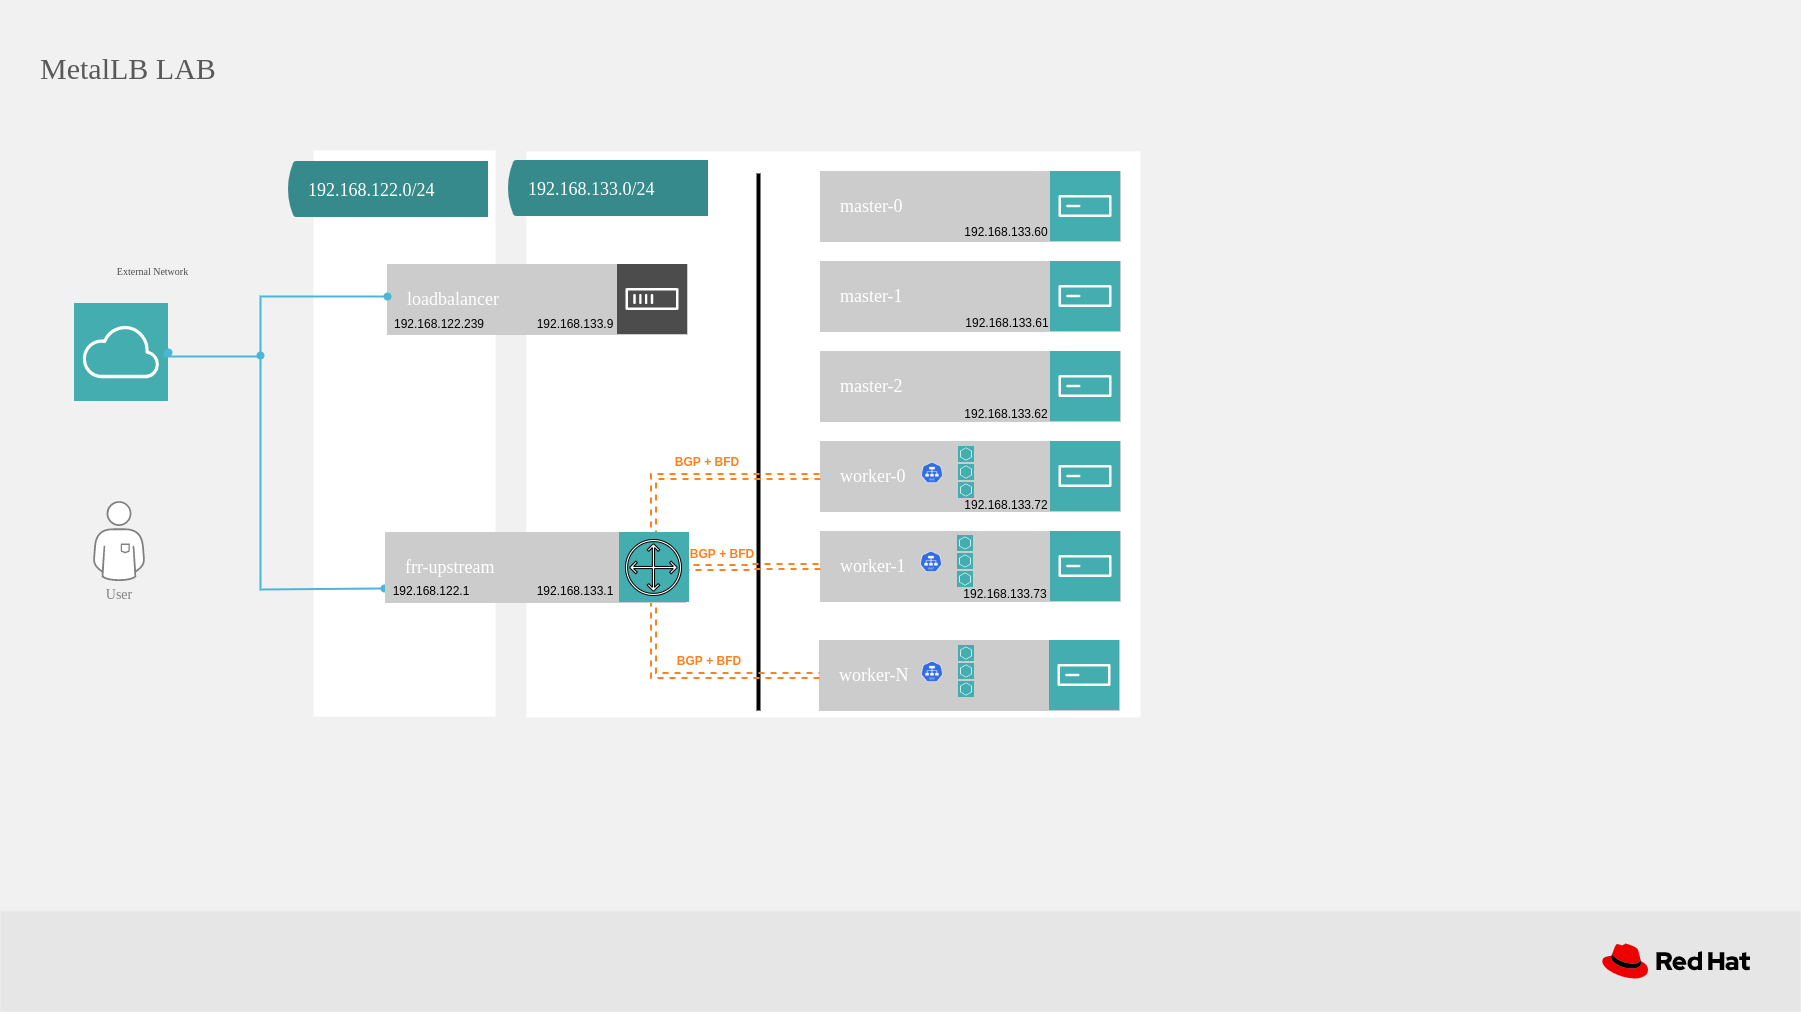
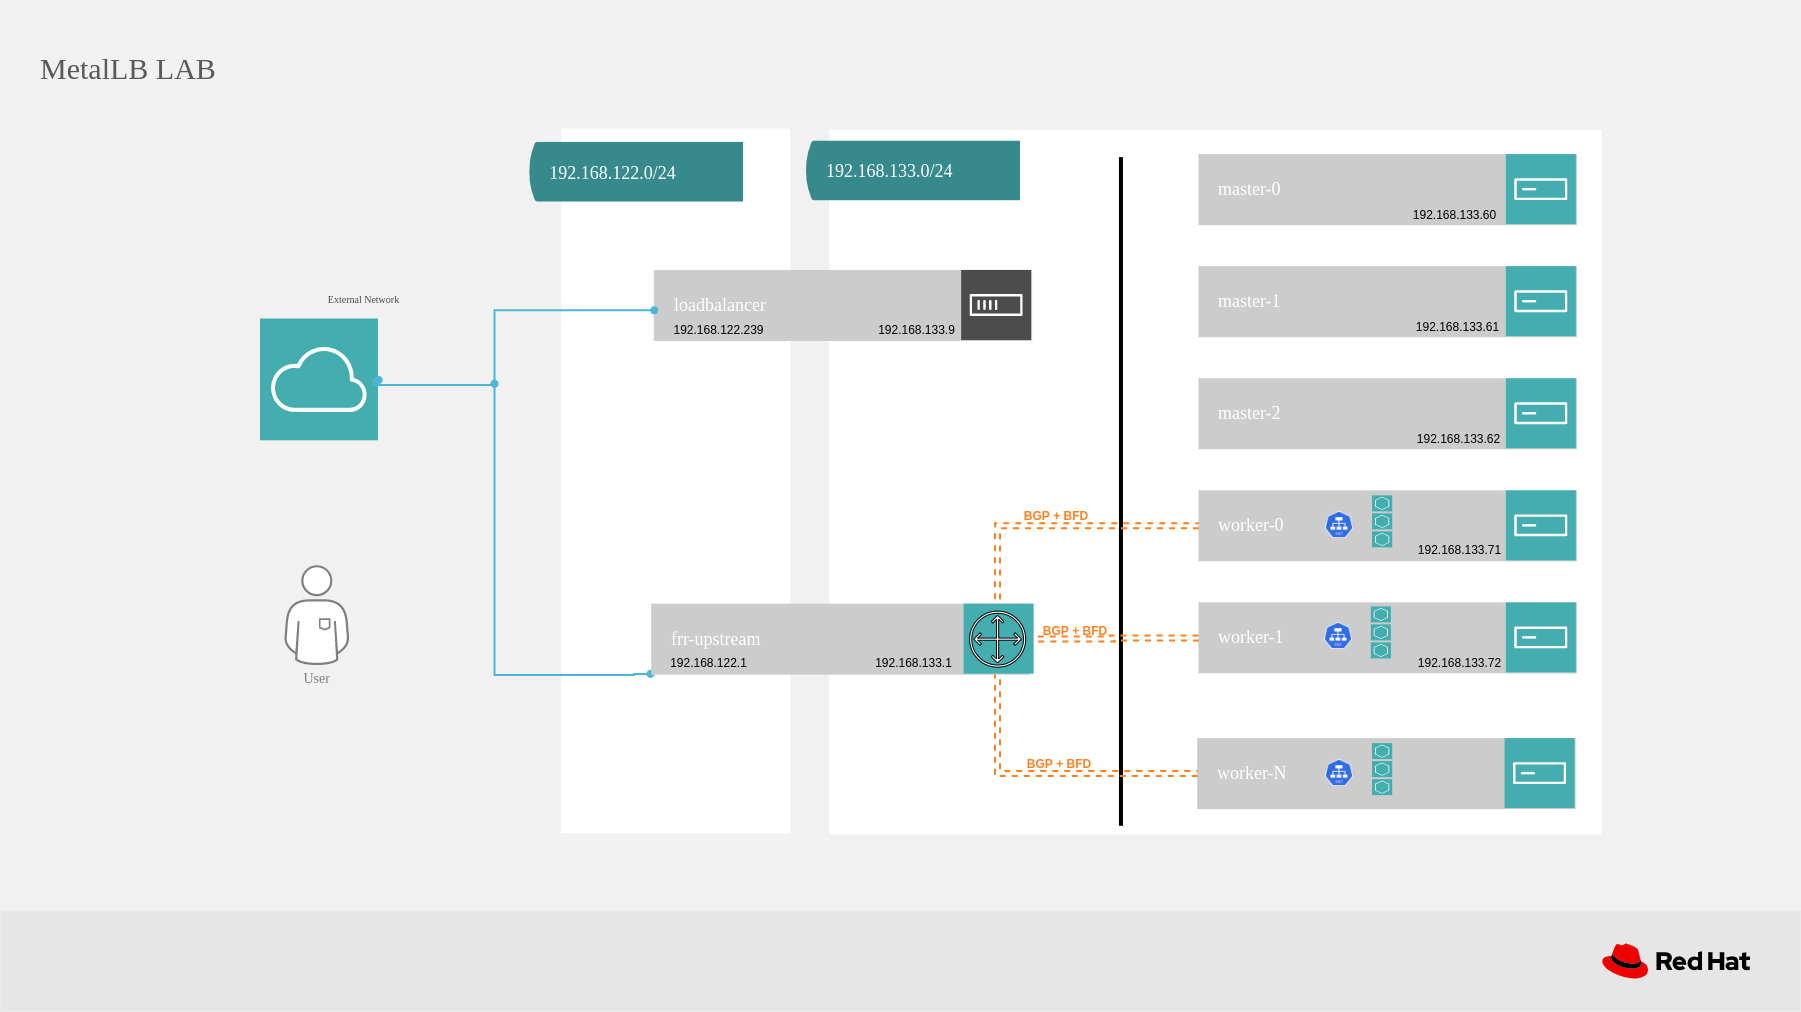
Fix MetalLB post

diff --git a/_posts/2022-03-18-metallb-in-bgp-mode.md b/_posts/2022-03-18-metallb-in-bgp-mode.md
@@ -20,13 +20,13 @@ Some concepts need to be conveyed in order to follow the next section where I wi
 
 First and foremost I need to address what is MetalLB ?
 
-It is an OpenSource project that provides the ability to create ```LoadBalancer``` type of kubernetes Services on top of a baremetal OpenShift/Kubernetes cluster and in turn create the same user experience that one would get on a public cloud provider like in AWS, GCP or Azure.[^1]
+It is an OpenSource project that provides the ability to create **LoadBalancer** type of kubernetes Services on top of a baremetal OpenShift/Kubernetes cluster and in turn create the same user experience that one would get on a public cloud provider like in AWS, GCP or Azure.[^1]
 
-A service of type ```LoadBalancer``` in kubernetes will automatically request the cloud provider to provision a load balancer that will direct traffic to the right cluster node and port tuples, and subsequently assign an externally accessible IP to it. Then information like the assigned IP address will be updated in the status section of the new service resource.[^2] In an on prem environment Kubernetes will create a ClusterIP service and assign a node port and wait for the administrator to create the load balancer side configuration.
+A service of type **LoadBalancer** in kubernetes will automatically request the cloud provider to provision a load balancer that will direct traffic to the right cluster node and port tuples, and subsequently assign an externally accessible IP to it. Then information like the assigned IP address will be updated in the status section of the new service resource.[^2] In an on prem environment Kubernetes will create a ClusterIP service and assign a node port and wait for the administrator to create the load balancer side configuration.
 
-In order to achieve a similar behavior to public cloud providers, MetalLB has to handle two main tasks: _address allocation_ which means managing the address pools that the new ```LoadBalancer``` services will use, and secondly the _external announcement_ of these services' IPs, so that external entities to the cluster can learn how to reach them.
+In order to achieve a similar behavior to public cloud providers, MetalLB has to handle two main tasks: _address allocation_ which means managing the address pools that the new **LoadBalancer** services will use, and secondly the _external announcement_ of these services' IPs, so that external entities to the cluster can learn how to reach them.
 
-In regard to address allocation MetalLB has to be told which IPs or IP ranges it can assign when a new service is created and this is accomplished through the ```AddressPool``` CRD.
+In regard to address allocation MetalLB has to be told which IPs or IP ranges it can assign when a new service is created and this is accomplished through the **AddressPool** CRD.
 
 As to external announcement of the IP, MetalLB offers two alternatives:
 
@@ -39,14 +39,14 @@ The remaining part of this article I am going to focus on the latter, BGP mode.
 
 When MetalLB works in BGP mode, it makes use of FRR[^4], an opensource project that started as an spin off of Quagga, and provides GNU/Linux based fully featured IP routing capabilities. It supports all sort of routing protocols, and among them the one MetalLB needs: BGP. 
 
-BGP or Border Gateway Protocol is the Internet and industry de facto protocol for routing, which you probably heard of. In brief, BGPv4 was defined under RFC1654[^5] as an exterior gateway path-vector routing protocol, with the goal of conveying network reachibility between autonomous systems. The autonomous system can be a flexible term but in its conception refers to a set of routers under a single technical administration, ideally with a common internal gateway protocol in use, common metrics, etc. Each AS will be identified by an ASN or autonomous system number that will be typically a unique 16-bit number (or 32 bits with RFC 4893).
+BGP or Border Gateway Protocol is the Internet and industry de facto protocol for routing, which you probably heard of. In brief, BGPv4 was defined under RFC1654[^5] as an exterior gateway path-vector routing protocol, with the goal of conveying network reachability between autonomous systems. The autonomous system can be a flexible term but in its conception refers to a set of routers under a single technical administration, ideally with a common internal gateway protocol in use, common metrics, etc. Each AS will be identified by an ASN or autonomous system number that will be typically a unique 16-bit number (or 32 bits with RFC 4893).
 
-BGP minimum allowed time to keep a failed session (hold time) is 3 seconds, which may be unacceptable amount of time for a service to be unavailable. Therefore, in addition to the standard BGP speaking capabilities, MetalLB (and FRR) also supports to configure Bi-directional Forwarding Detection (or BFD) protocol. BFD adds further resiliency to the solution providing faster failure detection. It allows two routers to detect faults in the bidirectional path among them at subsencond intervals. BFD works at layer 3, and basically offers a lightweight liveness detection protocol (aka "hello" protocol) that is independant of the routing protocol itself, it will only limit itself to notify the routing protocol about the failure and not to take any corrective action.[^6]
+BGP minimum allowed time to keep a failed session (hold time) is 3 seconds, which may be unacceptable amount of time for a service to be unavailable. Therefore, in addition to the standard BGP speaking capabilities, MetalLB (and FRR) also supports configuring Bi-directional Forwarding Detection (or BFD) protocol. BFD adds further resiliency to the solution providing faster failure detection. It allows two routers to detect faults in the bidirectional path among them at subsecond intervals. BFD works at layer 3, and basically offers a lightweight liveness detection protocol (aka "hello" protocol) that is independent of the routing protocol itself, it will only limit itself to notify the routing protocol about the failure and not to take any corrective action.[^6]
 
 
 ### Environment
 
-The network where the OpenShift cluster will run on needs an adjacent router to speak also BGP and BFD, moreover the router will do ECMP (Equal Cost Multipath) in order to distribute the incoming requests uniformly across multiple worker nodes. So if a service is advertised from multiple worker nodes, each should get an even amount of requests.
+The network where the OpenShift cluster will run on needs an adjacent router which speaks also BGP and BFD, moreover the router will do ECMP (Equal Cost Multipath) in order to distribute the incoming requests uniformly across multiple worker nodes. So if a service is advertised from multiple worker nodes, each should get an even amount of requests.
 
 For this purpose I am going to use an isolated instance of FRR running containerized within an external system in order to emulate that router.
 
@@ -58,7 +58,6 @@ The following diagram describes the test scenario in more detail.
 For the purpose of testing this feature I have an already installed cluster of OpenShift 4.10.3 using baremetal UPI deployment method, and also using Openshift SDN as CNI plugin with default configuration.
 
 {% highlight bash %}
-
 $ oc get clusterversion
 NAME      VERSION   AVAILABLE   PROGRESSING   SINCE   STATUS
 version   4.10.3    True        False         23h     Cluster version is 4.10.3
@@ -149,7 +148,7 @@ For MetalLB in BGP mode to work that needs to be done is as follows:
 
 ### Procedure
 
-The procedure consists of deploying the external router, then deploy and configure MetalLB operator and test the resulting scenario.
+The procedure consists of three parts, deploying the external router, then deploying and configuring MetalLB operator and finally testing the resulting scenario.
 
 #### External Router
 
@@ -323,7 +322,7 @@ bdf2b6a9ebe087acc7df8b57f86dbf7e3f253f5df66ced360a18d2d40574b8f1
 {% endhighlight %}
 
 Finally allow BGP (179/TCP) and BFD (3784/UDP and 3785/UDP) communications to go through the firewall if you have one running between OpenShift nodes and the router. 
-Since in my LAB environment the host running the FRR pod is a Fedora hypervisor and the OpenShift cluster is virtualized, I will allow this port via firwalld and in the ```libvirt``` zone.
+Since in my LAB environment the host running the FRR pod is a Fedora hypervisor and the OpenShift cluster is virtualized, I will allow this port via firwalld and in the **libvirt** zone.
 
 {% highlight console %}
 $ firewall-cmd --zone=libvirt --add-port=179/tcp --add-port=3784/udp --add-port=3785/udp --permanent
@@ -422,7 +421,6 @@ metallb.metallb.io/metallb created
 ```
 
 {% highlight console %}
-
 $  oc get deployment -n metallb-system controller 
 NAME         READY   UP-TO-DATE   AVAILABLE   AGE
 controller   1/1     1            1           91s
@@ -459,8 +457,8 @@ spec:
 
 ##### 4. Create an AddressPool resource
 
-As mentioned before, the ```AddressPool``` resource will tell MetalLB which External IP addresses are valid to be assigned to a ```LoadBalancer``` service.
-These addresses can be specified as subnet range, or individual addresses like the example below. To avoid collissions these IP addresses should be available and reserved for this use. The protocol has to be set to ```bgp```. The other protocol option is the older method ```layer2``` which relies on ARP/NDP to advertise the addresses instead of BGP.
+As mentioned before, the **AddressPool** resource will tell MetalLB which External IP addresses are valid to be assigned to a **LoadBalancer** service.
+These addresses can be specified as subnet range, or individual addresses like the example below. To avoid collissions these IP addresses should be available and reserved for this use. The protocol has to be set to **bgp**. The other protocol option is the older method **layer2** which relies on ARP/NDP to advertise the addresses instead of BGP.
 
 {% highlight console %}
 $ cat << _EOF_ | oc apply -f -
@@ -472,19 +470,19 @@ metadata:
   namespace: metallb-system
 spec:
   addresses:
-  - 192.168.133.150/32
-  - 192.168.133.151/32
-  - 192.168.133.152/32
-  - 192.168.133.153/32
-  - 192.168.133.154/32
-  - 192.168.133.155/32
+  - 192.168.155.150/32
+  - 192.168.155.151/32
+  - 192.168.155.152/32
+  - 192.168.155.153/32
+  - 192.168.155.154/32
+  - 192.168.155.155/32
   autoAssign: true
   protocol: bgp
 _EOF_
 addresspool.metallb.io/address-pool-bgp created
 {% endhighlight %}
 
-##### 4. Create a BFD profile
+##### 5. Create a BFD profile
 
 The BFD profile holds the configuration and timeouts for BFD protocol.
 
@@ -507,9 +505,9 @@ _EOF_
 bfdprofile.metallb.io/test-bfd-prof created
 {% endhighlight %}
 
-##### 5. Create a BGPPeer resource
+##### 6. Create a BGPPeer resource
 
-Finally create the BGPPeer resource which will pass to the seaker pods' frr container the right ASN numbers, local and remote, as well as the remote peer IP address.
+Finally create the **BGPPeer** resource which will pass to the seaker pods' frr container the right ASN numbers, local and remote, as well as the remote peer IP address.
 
 {% highlight console %}
 $ cat << _EOF_ | oc apply -f -
@@ -531,14 +529,14 @@ bgppeer.metallb.io/peer-test created
 The speaker pods should be up and running in the worker nodes by now.
 
 {% highlight console %}
-oc get pods -n metallb-system
+$ oc get pods -n metallb-system
 NAME                                                   READY   STATUS    RESTARTS   AGE
 controller-5bcbccf6d4-lhp95                            2/2     Running   0          71s
 metallb-operator-controller-manager-654df86cc5-szk96   1/1     Running   0          14m
 speaker-bt8z2                                          6/6     Running   0          71s
 speaker-czhc5                                          6/6     Running   0          71s
 
-$oc get ds -n metallb-system
+$ oc get ds -n metallb-system
 NAME      DESIRED   CURRENT   READY   UP-TO-DATE   AVAILABLE   NODE SELECTOR                     AGE
 speaker   2         2         2       2            2           node-role.kubernetes.io/worker=   110s
 {% endhighlight %}
@@ -547,7 +545,7 @@ speaker   2         2         2       2            2           node-role.kuberne
 ### Verification
 
 Now that the environment is up and running lets verify it is behaving as expected.
-Firstly, I will check that there are valid BGP sessions established in my speaker pods, for example ```speaker-6jsfc```.
+Firstly, I will check that there are valid BGP sessions established in my speaker pods, for example **speaker-6jsfc**.
 The BGP state should be **Established**, and BFD status should be **Up**.
 
 {% highlight console %}
@@ -696,10 +694,10 @@ end
 
 {% endhighlight %}
 
-Similarily if I check the standalone FRR pod the  output should be similar against each peer.
+Similarily if I check the standalone FRR pod the output should be similar against each peer.
 
 {% highlight console %}
-sudo podman exec -it  frr-upstream vtysh -c "show ip bgp neighbor"
+$ sudo podman exec -it  frr-upstream vtysh -c "show ip bgp neighbor"
 BGP neighbor is 192.168.133.71, remote AS 64520, local AS 64521, external link
 Hostname: ice-ocp4-worker-0.lab.local
  Member of peer-group metallb for session parameters
@@ -852,6 +850,56 @@ Read thread: on  Write thread: on  FD used: 27
 {% endhighlight %}
 
 
+The BFD sessions can be inspected in more detail with the following command.
+
+{% highlight console %}
+$ sudo podman exec -it frr-upstream   vtysh -c "show bfd peers"
+BFD Peers:
+	peer 192.168.133.71 local-address 192.168.133.1 vrf default interface virbr2
+		ID: 2094083731
+		Remote ID: 1259657737
+		Active mode
+		Status: up
+		Uptime: 2 day(s), 2 hour(s), 58 minute(s), 5 second(s)
+		Diagnostics: ok
+		Remote diagnostics: ok
+		Peer Type: dynamic
+		Local timers:
+			Detect-multiplier: 3
+			Receive interval: 300ms
+			Transmission interval: 300ms
+			Echo receive interval: 50ms
+			Echo transmission interval: disabled
+		Remote timers:
+			Detect-multiplier: 37
+			Receive interval: 35ms
+			Transmission interval: 35ms
+			Echo receive interval: 50ms
+
+	peer 192.168.133.72 local-address 192.168.133.1 vrf default interface virbr2
+		ID: 1112508781
+		Remote ID: 2587821932
+		Active mode
+		Status: up
+		Uptime: 1 day(s), 5 hour(s), 38 minute(s), 0 second(s)
+		Diagnostics: ok
+		Remote diagnostics: ok
+		Peer Type: dynamic
+		Local timers:
+			Detect-multiplier: 3
+			Receive interval: 300ms
+			Transmission interval: 300ms
+			Echo receive interval: 50ms
+			Echo transmission interval: disabled
+		Remote timers:
+			Detect-multiplier: 37
+			Receive interval: 35ms
+			Transmission interval: 35ms
+			Echo receive interval: 50ms
+{% endhighlight %}
+
+#### Creating a service to test MetalLB
+
 Now I will create a test service using the hello-node deployment to verify MetalLB is working as expected.
 
 {% highlight console %}
@@ -884,13 +932,12 @@ $ oc expose deployment.apps/hello-node --port 80 --target-port 9376 --name=test-
 service/test-frr exposed
 {% endhighlight %}
 
-The newly created ```LoadBalancer``` service is healthy, it is getting an External IP from the defined pool and has the right endpoint.
+The newly created **LoadBalancer** service is healthy, it is getting an External IP from the defined pool and has the right endpoint.
 
 {% highlight console %}
-oc get svc
+$ oc get svc
 NAME       TYPE           CLUSTER-IP       EXTERNAL-IP       PORT(S)        AGE
-test-frr   LoadBalancer   172.30.129.156   192.168.133.150   80:31749/TCP   38s
-
+test-frr   LoadBalancer   172.30.169.126   192.168.155.150   80:30194/TCP   33s
 
 $ oc describe svc test-frr
 Name:                     test-frr
@@ -901,45 +948,42 @@ Selector:                 app=hello-node
 Type:                     LoadBalancer
 IP Family Policy:         SingleStack
 IP Families:              IPv4
-IP:                       172.30.129.156
-IPs:                      172.30.129.156
-LoadBalancer Ingress:     192.168.133.150
+IP:                       172.30.169.126
+IPs:                      172.30.169.126
+LoadBalancer Ingress:     192.168.155.150
 Port:                     <unset>  80/TCP
 TargetPort:               9376/TCP
-NodePort:                 <unset>  31749/TCP
-Endpoints:                10.131.0.125:9376
+NodePort:                 <unset>  30194/TCP
+Endpoints:                10.131.1.165:9376
 Session Affinity:         None
 External Traffic Policy:  Cluster
 Events:
   Type    Reason        Age   From                Message
   ----    ------        ----  ----                -------
-  Normal  IPAllocated   65s   metallb-controller  Assigned IP ["192.168.133.150"]
-  Normal  nodeAssigned  65s   metallb-speaker     announcing from node "ice-ocp4-worker-1.lab.local"
-  Normal  nodeAssigned  64s   metallb-speaker     announcing from node "ice-ocp4-worker-0.lab.local"
+  Normal  nodeAssigned  60s   metallb-speaker     announcing from node "ice-ocp4-worker-0.lab.local"
+  Normal  IPAllocated   57s   metallb-controller  Assigned IP ["192.168.155.150"]
+  Normal  nodeAssigned  56s   metallb-speaker     announcing from node "ice-ocp4-worker-1.lab.local"
 {% endhighlight %}
 
 From the external FRR router pod the route to the external IP of the new service is learnt properly via BGP and the service is reachable on its external IP from other nodes in that network.
 
 {% highlight console %}
-$ sudo podman exec -it frr-upstream  bash
-bash-5.1# ip r
-default via 192.168.3.254 dev br0 proto static metric 425 
-192.168.0.0/24 dev virbr1 proto kernel scope link src 192.168.0.254 linkdown 
-192.168.3.254 dev br0 proto static scope link metric 20425 
-192.168.4.0/24 dev vlan1001 proto kernel scope link src 192.168.4.2 metric 400 
-192.168.122.0/24 dev virbr0 proto kernel scope link src 192.168.122.1 
-192.168.133.0/24 dev virbr2 proto kernel scope link src 192.168.133.1 
-192.168.133.150 nhid 494 proto bgp metric 20 
-	nexthop via 192.168.133.71 dev virbr2 weight 1 
-	nexthop via 192.168.133.72 dev virbr2 weight 1 
+$ sudo podman exec -it frr-upstream  ip r
+default via 192.168.3.254 dev br0 proto static metric 425
+192.168.0.0/24 dev virbr1 proto kernel scope link src 192.168.0.254 linkdown
+192.168.3.254 dev br0 proto static scope link metric 20425
+192.168.4.0/24 dev vlan1001 proto kernel scope link src 192.168.4.2 metric 400
+192.168.122.0/24 dev virbr0 proto kernel scope link src 192.168.122.1
+192.168.133.0/24 dev virbr2 proto kernel scope link src 192.168.133.1
+192.168.155.150 nhid 575 proto bgp metric 20
+    nexthop via 192.168.133.71 dev virbr2 weight 1
+    nexthop via 192.168.133.72 dev virbr2 weight 1
 
-bash-5.1# exit
-
-$ curl -l 192.168.133.150
+$ curl -l 192.168.155.150
 hello-node-78bd88f59b-5kswh
 {% endhighlight %}
 
-Now the requests are routed uniformly across the worker nodes. Since this example is using OpenShift SDN and MetalLB respects the externalTrafficPolicy in place (which is the default ```cluster``` in this case), the traffic will be distributed evenly and in every node and then ```kube-proxy``` will take care of distributing the traffic to the running pods. This can be verified by inspecting the iptables rules created by ```kube-proxy``` on every node associated with the ```test-metallb``` project and the ```test-frr``` service.[^8]
+Now the requests are routed uniformly across the worker nodes. Since this example is using OpenShift SDN and MetalLB respects the externalTrafficPolicy in place (which is the default **cluster** in this case), the traffic will be distributed evenly and in every node and then **kube-proxy** will take care of distributing the traffic to the running pods. This can be verified by inspecting the iptables rules created by **kube-proxy** on every node associated with the **test-metallb** project and the **test-frr** service.[^8]
 
 {% highlight console %}
     0     0 KUBE-SVC-22I6P2EHQ5PNEHEH  tcp  --  *      *       0.0.0.0/0            172.30.129.156       /* test-metallb/test-frr cluster IP */ tcp dpt:80
